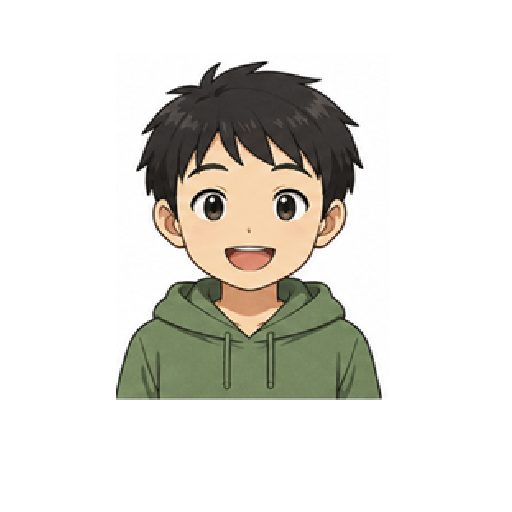
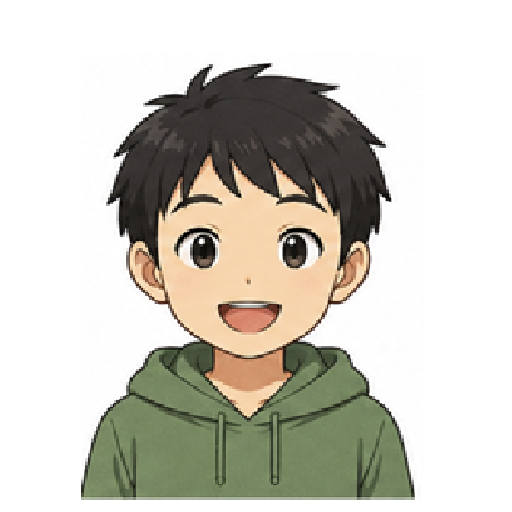
かるたゲームの家族画像の高さ調節

diff --git a/css/style.css b/css/style.css
@@ -432,12 +432,12 @@ h1{
 .family-board{
     display:grid;
     justify-content:center;
-    gap:14px;
+    gap:12px;
     margin-top:15px;
     padding:10px;
 
     grid-template-columns:
-    100px 100px;
+    90px 90px;
 }
 
 .family-card{
@@ -446,11 +446,13 @@ h1{
     box-shadow:0 3px 6px rgba(0,0,0,.25);
     padding:6px;
     cursor:pointer;
+    aspect-ratio:1 / 1;   /* 正方形 */
+    /* overflow:hidden; */
 }
 
 .family-card img{
     width:100%;
-    height:auto;
+    height:60px;
     display:block;
     border-radius:10px;
 }
@@ -482,11 +484,6 @@ h1{
 
 #otouto,#imouto{
     margin-top:-8px;
-}
-
-
-.family-card.correct{
-    border:4px solid green;
 }
 
 .family-mode-label{

diff --git a/data/family_inner.js b/data/family_inner.js
@@ -4,7 +4,7 @@ export default [
   word: "そふ",
   kana: "ソフ",
   romaji: "so fu",
-  sentence: "うちの そふ です",
+  sentence: "うちの 祖父 です",
   img: "sofu.png",
   lesson: 41
 },
@@ -31,7 +31,7 @@ export default [
   word: "はは",
   kana: "ハハ",
   romaji: "ha ha",
-  sentence: "うちの はは です",
+  sentence: "うちの 母 です",
   img: "haha.png",
   lesson: 7
 },
